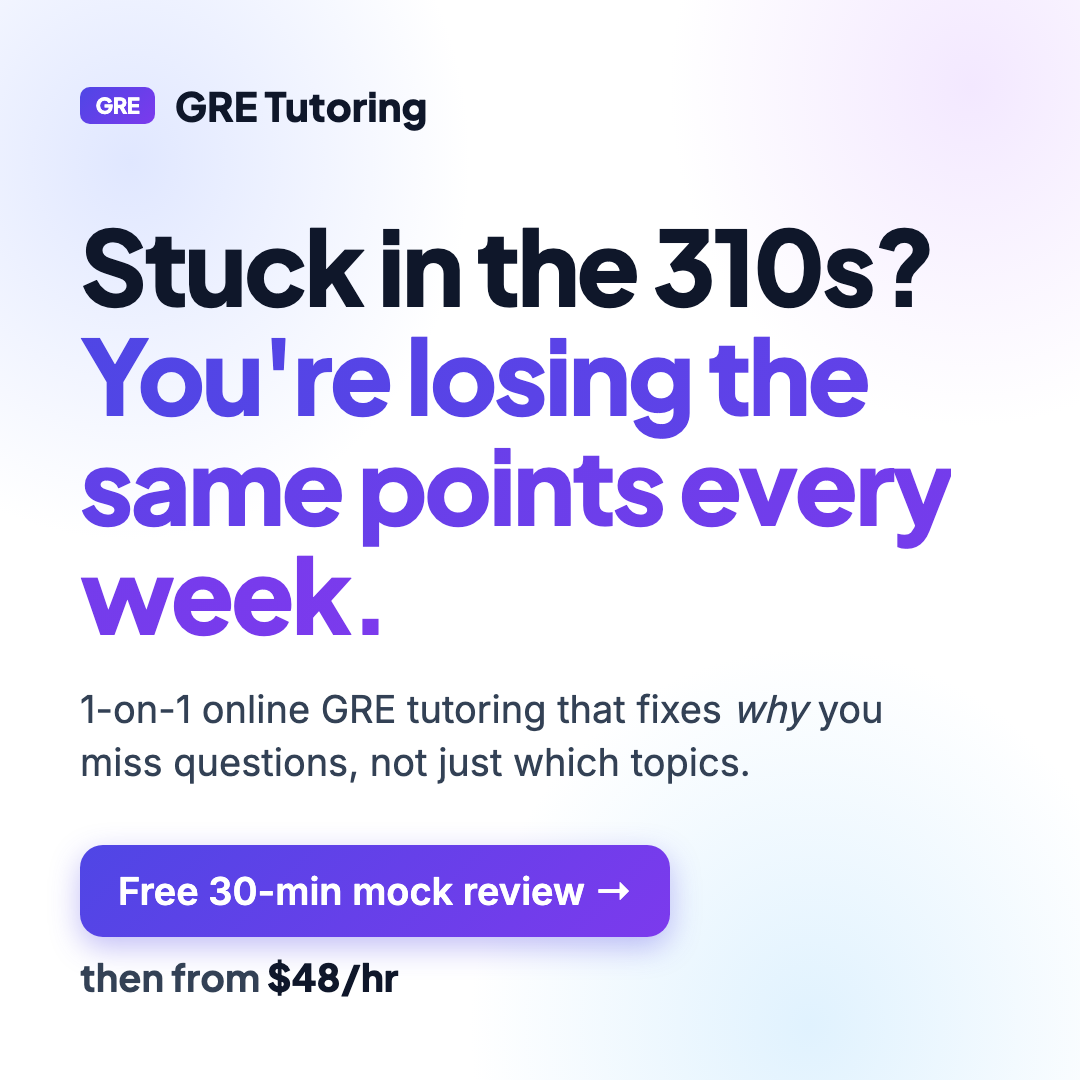
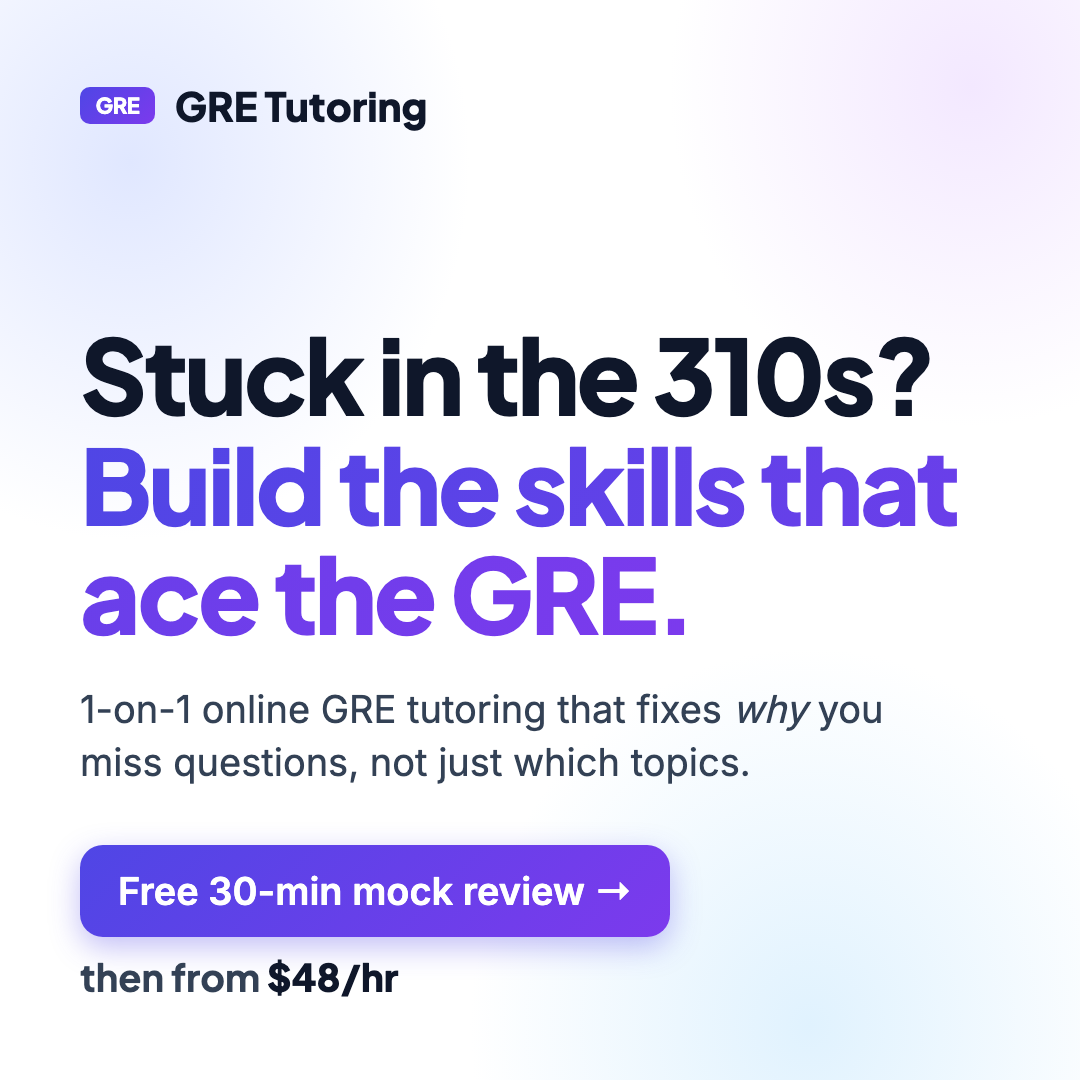
Drop free tutoring; new headline "Build the skills that ace the GRE"
Removes the "Can't afford it?" section, the free tutoring checkbox and
its form fields, and the region intro text that only existed for it.
The free 30-min first call stays. Adds Google Ads image and logo assets
in ad-assets/google and updates the Reddit hook ads to the new headline.

Changed region(s): [[0.0611, 0.2139, 0.8861, 0.6111]]

diff --git a/index.html b/index.html
@@ -3,7 +3,7 @@
 <head>
 <meta charset="utf-8">
 <meta name="viewport" content="width=device-width, initial-scale=1">
-<meta name="description" content="1-on-1 online GRE tutoring: strategies to break the 310s plateau, and free spots for students who can't pay.">
+<meta name="description" content="1-on-1 online GRE tutoring: build the skills that ace the GRE, with a top 10% scorer.">
 <title>GRE Tutoring</title>
 <link rel="preconnect" href="https://fonts.googleapis.com">
 <link rel="preconnect" href="https://fonts.gstatic.com" crossorigin>
@@ -61,7 +61,6 @@ a{color:var(--brand);text-decoration:none}
 .nav-links a{color:var(--ink-2);font-weight:500;font-size:.95rem}
 .nav-links a:hover{color:var(--brand)}
 .nav .btn{padding:.6rem 1rem;font-size:.92rem}
-html.intl .india-only{display:none!important}
 @media (max-width:760px){.nav-links{display:none}.nav .btn{margin-left:auto}.nav .container{gap:.75rem}}
 .logo,.nav .btn{white-space:nowrap}
 @media (max-width:340px){.logo-word{display:none}}
@@ -128,12 +127,6 @@ section{padding:96px 0}
 .step h3{font-size:1.1rem;font-weight:700;margin-bottom:.4rem}
 .step p{color:var(--ink-2);font-size:.95rem}
 
-/* free spots */
-.free{display:grid;grid-template-columns:auto 1fr auto;gap:1.5rem;align-items:center;background:linear-gradient(135deg,var(--g1),var(--g2));border:1px solid var(--line);border-radius:20px;padding:2rem 2.25rem}
-@media (max-width:760px){.free{grid-template-columns:1fr;padding:1.75rem 1.5rem}}
-.free-icon{width:56px;height:56px;border-radius:16px;background:var(--card);display:grid;place-items:center;font-size:1.6rem;box-shadow:var(--shadow)}
-.free h3{font-size:1.35rem;font-weight:800;margin-bottom:.35rem}
-.free p{color:var(--ink-2)}
 
 /* contact */
 .contact{display:grid;grid-template-columns:.85fr 1.15fr;gap:48px;align-items:start}
@@ -156,10 +149,6 @@ input,select,textarea{width:100%;font:inherit;font-size:.98rem;color:var(--ink);
 input:hover,select:hover,textarea:hover{border-color:color-mix(in srgb,var(--brand) 35%,var(--line))}
 input:focus,select:focus,textarea:focus{border-color:var(--brand)}
 textarea{min-height:110px;resize:vertical}
-.freebox{border:1px solid var(--line);background:var(--bg-soft);border-radius:12px;padding:.9rem 1rem}
-.freebox .small{margin:.35rem 0 0 1.75rem;font-size:.85rem;color:var(--muted)}
-label.check{display:flex;align-items:center;gap:.65rem;font-size:.98rem;margin:0;cursor:pointer}
-label.check input{width:1.1rem;height:1.1rem;margin:0;accent-color:var(--brand)}
 .err{color:var(--err);font-size:.9rem;min-height:1.2em}
 form .btn{width:100%;justify-content:center;padding:.95rem}
 .done{text-align:center;padding:2.5rem 1rem}
@@ -219,7 +208,7 @@ try { var rdtCid = new URLSearchParams(location.search).get('rdt_cid'); if (rdtC
     <nav class="nav-links" aria-label="Main">
       <a href="#method">Method</a><a href="#how">How it works</a><a href="#apply">Contact</a>
     </nav>
-    <a href="#apply" class="btn btn-primary">Free session</a>
+    <a href="#apply" class="btn btn-primary">Book a call</a>
   </div>
 </header>
 
@@ -228,12 +217,12 @@ try { var rdtCid = new URLSearchParams(location.search).get('rdt_cid'); if (rdtC
   <div class="container hero-grid">
     <div>
       <span class="pill"><b>Top 10%</b> GRE scorer · ex-McKinsey</span>
-      <h1>Free GRE tutoring <span class="grad">from an expert.</span></h1>
-      <p class="lede">Most people plateau because they keep doing more questions without fixing why they get them wrong. These are the strategies I use to break that plateau.</p>
+      <h1>Build the skills <span class="grad">that ace the GRE.</span></h1>
+      <p class="lede">1-on-1 online GRE tutoring with a top 10% scorer. We fix why you get questions wrong, so your Verbal and Quant skills keep improving.</p>
       <div class="cta">
-        <a href="#apply" class="btn btn-primary">Get free GRE tutoring →</a>
+        <a href="#apply" class="btn btn-primary">Book your free first call →</a>
       </div>
-      <p class="cta-note">First 30-min session is free, 1-on-1 with a top 10% GRE scorer. No payment details needed.</p>
+      <p class="cta-note">First 30-min call is free, 1-on-1 with a top 10% GRE scorer. No payment details needed.</p>
     </div>
   </div>
 </div>
@@ -300,23 +289,12 @@ try { var rdtCid = new URLSearchParams(location.search).get('rdt_cid'); if (rdtC
   </div>
 </section>
 
-<section id="free" class="india-only" style="padding-bottom:0">
-  <div class="container">
-    <div class="free reveal">
-      <div class="free-icon" aria-hidden="true">🎓</div>
-      <div><h3>Can't afford it?</h3>
-        <p>I keep a few free spots each month for people who are serious but can't pay right now. Tick "Apply for free tutoring" at the end of the form below and tell me about your situation and your target. I'll be honest if I can't take you on this month.</p></div>
-      <a href="#apply" class="btn btn-ghost">Apply</a>
-    </div>
-  </div>
-</section>
-
 <section id="apply">
   <div class="container contact">
     <div class="reveal">
       <div class="eyebrow">Get in touch</div>
       <h2>Start with a free 30-minute call</h2>
-      <p class="intro"><span data-r="intro">For paid sessions or a free tutoring spot.</span> I read every request myself and reply within 48 hours.</p>
+      <p class="intro">I read every request myself and reply within 48 hours.</p>
       <ul class="next">
         <li><span class="ic">1</span><div><b>Send the form</b><span>Takes about two minutes.</span></div></li>
         <li><span class="ic">2</span><div><b>I get back to you</b><span>Within 48 hours, to set up a time.</span></div></li>
@@ -349,12 +327,6 @@ try { var rdtCid = new URLSearchParams(location.search).get('rdt_cid'); if (rdtC
         </div>
         <div><label for="msg">Anything I should know? <span class="hint">(target programs, how long you've prepared, what you've tried)</span></label>
           <textarea id="msg" name="msg"></textarea></div>
-        <div class="freebox india-only">
-          <label class="check"><input type="checkbox" id="free" name="free" value="Yes"> Apply for free tutoring</label>
-          <p class="small">Seats are limited each month. Free tutoring is only for serious students who genuinely can't afford paid sessions.</p>
-        </div>
-        <div id="whyfree" hidden><label for="why">Tell me about your situation <span class="hint">(why you need a free spot, how much time you can put in each week)</span></label>
-          <textarea id="why" name="why"></textarea></div>
         <div class="err" id="err" role="alert"></div>
         <button type="submit" id="send" class="btn btn-primary">Send request</button>
       </form>
@@ -407,19 +379,16 @@ if ('IntersectionObserver' in window) {
 // Regional content. /in, /us, /eu pick a region (vercel.json rewrites them to this page);
 // on "/" the visitor's country from /api/geo picks it, else India.
 const REGIONS = {
-  in: { code: 'IN', intro: 'For paid sessions or a free tutoring spot.', phone: '+91' },
-  us: { code: 'US', intro: 'For paid sessions.', phone: '+1' },
-  eu: { code: 'EU', intro: 'For paid sessions.', phone: '+' },
+  in: { code: 'IN', phone: '+91' },
+  us: { code: 'US', phone: '+1' },
+  eu: { code: 'EU', phone: '+' },
 };
 const EURO_COUNTRIES = new Set('AT BE BG HR CY CZ DK EE FI FR DE GR HU IE IT LV LT LU MT NL PL PT RO SK SI ES SE IS LI NO CH'.split(' '));
 
 function applyRegion(key) {
   const r = REGIONS[key] || REGIONS.in;
-  document.querySelectorAll('[data-r]').forEach(el => { el.textContent = r[el.dataset.r]; });
-  document.documentElement.classList.toggle('intl', key !== 'in');
   document.getElementById('phone').placeholder = r.phone;
   document.getElementById('region').value = r.code;
-  if (key !== 'in') { const fb = document.getElementById('free'); fb.checked = false; fb.dispatchEvent(new Event('change')); }
   if (window.clarity) clarity('set', 'region', r.code);
 }
 
@@ -437,14 +406,6 @@ function applyRegion(key) {
 
 const form = document.getElementById('req');
 const err = document.getElementById('err');
-const freeBox = document.getElementById('free');
-const whyBox = document.getElementById('whyfree');
-const why = document.getElementById('why');
-freeBox.addEventListener('change', () => {
-  const free = freeBox.checked;
-  whyBox.hidden = !free;
-  why.required = free;
-});
 form.addEventListener('submit', async (e) => {
   e.preventDefault();
   err.textContent = '';
@@ -459,7 +420,6 @@ form.addEventListener('submit', async (e) => {
   }
   const data = new FormData(form);
   // Keep the sheet's existing "score" column filled alongside the new verbal/quant fields.
-  data.set('free', freeBox.checked ? 'Yes' : 'No');
   data.set('score', `V ${form.verbal.value.trim()} / Q ${form.quant.value.trim()}`);
   const btn = document.getElementById('send');
   btn.disabled = true; btn.textContent = 'Sending…';

diff --git a/ad-assets/google/src/base.css b/ad-assets/google/src/base.css
@@ -1,0 +1,17 @@
+@import url("https://fonts.googleapis.com/css2?family=Plus+Jakarta+Sans:wght@600;700;800&family=Inter:wght@400;500;600&family=JetBrains+Mono:wght@500&display=swap");
+*{box-sizing:border-box;margin:0}
+html,body{width:var(--w);height:var(--h);overflow:hidden}
+body{font-family:Inter,sans-serif;color:#0f172a;position:relative;
+  background:radial-gradient(45% 50% at 12% 15%,#e0e7ff,transparent 70%),radial-gradient(40% 45% at 90% 8%,#f3e8ff,transparent 70%),radial-gradient(45% 50% at 75% 95%,#e0f2fe,transparent 70%),#fff}
+.pad{position:absolute;inset:var(--pad);display:flex;flex-direction:column}
+.logo{display:flex;align-items:center;gap:.5em;font-family:"Plus Jakarta Sans";font-weight:800;font-size:var(--logo)}
+.mark{height:1.7em;padding:0 .7em;border-radius:.45em;letter-spacing:-.02em;background:linear-gradient(135deg,#4f46e5,#7c3aed);color:#fff;display:grid;place-items:center;font-size:.55em}
+.pill{align-self:flex-start;font-family:"JetBrains Mono";font-size:var(--pill);color:#4f46e5;background:#eef0ff;border:1px solid #dcdfff;border-radius:999px;padding:.45em 1em;letter-spacing:.02em}
+h1{font-family:"Plus Jakarta Sans";font-weight:800;letter-spacing:-.03em;line-height:1.05;font-size:var(--h1)}
+.grad{background:linear-gradient(120deg,#4f46e5,#7c3aed);-webkit-background-clip:text;background-clip:text;color:transparent}
+.sub{font-size:var(--sub);color:#334155;line-height:1.4}
+.cta{align-self:flex-start;display:inline-flex;align-items:center;gap:.4em;background:linear-gradient(135deg,#4f46e5,#7c3aed);color:#fff;font-weight:700;border-radius:.6em;padding:.6em 1em;font-size:var(--cta);box-shadow:0 10px 30px rgba(79,70,229,.35)}
+.list{display:grid;gap:var(--gap)}
+.item{display:flex;align-items:center;gap:.7em;background:#fff;border:2px solid #e5e7ef;border-radius:.6em;padding:.55em .8em;font-size:var(--item);font-weight:600;box-shadow:0 6px 18px rgba(15,23,42,.06)}
+.ok{flex:none;width:1.5em;height:1.5em;border-radius:50%;background:#d1fae5;color:#059669;display:grid;place-items:center;font-weight:800;font-size:.8em}
+.tag{font-family:"JetBrains Mono";font-size:.62em;color:#4f46e5;text-transform:uppercase;letter-spacing:.06em;margin-right:.2em}

diff --git a/ad-assets/google/src/method-1200x628.html b/ad-assets/google/src/method-1200x628.html
@@ -1,0 +1,3 @@
+<!doctype html><html><head><meta charset="utf-8"><link rel="stylesheet" href="base.css"><style>:root{--w:1200px;--h:628px;--pad:56px;--logo:28px;--pill:17px;--h1:58px;--sub:24px;--cta:26px;--item:22px;--gap:12px}</style></head><body><div class="pad">
+<div style="display:grid;grid-template-columns:1fr 1.05fr;gap:44px;height:100%"><div style="display:flex;flex-direction:column"><div class="logo"><span class="mark">GRE</span>GRE Tutoring</div><div style="margin-top:auto"><h1>Build the skills <span class="grad">that ace the GRE.</span></h1></div><p class="sub" style="margin-top:18px">1-on-1 online GRE tutoring, built around your mistakes.</p><div style="margin-top:28px"><span class="cta">Book a free 30-min call →</span></div></div><div style="display:flex;align-items:center"><div class="list"><div class="item"><span class="ok">✓</span><span><span class="tag">Ledger</span> Find the traps costing you points</span></div><div class="item"><span class="ok">✓</span><span><span class="tag">Verbal</span> Read for structure, not vocabulary</span></div><div class="item"><span class="ok">✓</span><span><span class="tag">Quant</span> Set up before you solve</span></div><div class="item"><span class="ok">✓</span><span><span class="tag">Vocab</span> Learn words through roots</span></div></div></div></div>
+</div></body></html>

diff --git a/ad-assets/src/hook-1080x1350.html b/ad-assets/src/hook-1080x1350.html
@@ -1,3 +1,3 @@
 <!doctype html><html><head><meta charset="utf-8"><link rel="stylesheet" href="base.css">
 <style>:root{--w:1080px;--h:1350px;--pad:84px;--logo:42px;--h1:112px;--sub:40px;--cta:40px;--trap:0px;--gap:0px}</style></head>
-<body><div class="pad"><div class="logo"><span class="mark">GRE</span>GRE Tutoring</div><div style="margin-top:auto"><h1>Stuck in the 310s?<br><span class="grad">You're losing the same points every week.</span></h1><p class="sub" style="margin-top:40px;max-width:840px">1-on-1 online GRE tutoring that fixes <i>why</i> you miss questions, not just which topics.</p></div><div class="row" style="margin-top:64px;margin-bottom:24px"><span class="cta">Free 30-min mock review →</span><span class="price">then from <b>$48/hr</b></span></div></div></body></html>
+<body><div class="pad"><div class="logo"><span class="mark">GRE</span>GRE Tutoring</div><div style="margin-top:auto"><h1>Stuck in the 310s?<br><span class="grad">Build the skills that ace the GRE.</span></h1><p class="sub" style="margin-top:40px;max-width:840px">1-on-1 online GRE tutoring that fixes <i>why</i> you miss questions, not just which topics.</p></div><div class="row" style="margin-top:64px;margin-bottom:24px"><span class="cta">Free 30-min mock review →</span><span class="price">then from <b>$48/hr</b></span></div></div></body></html>

diff --git a/ad-assets/src/hook-1080x1080.html b/ad-assets/src/hook-1080x1080.html
@@ -1,3 +1,3 @@
 <!doctype html><html><head><meta charset="utf-8"><link rel="stylesheet" href="base.css">
 <style>:root{--w:1080px;--h:1080px;--pad:80px;--logo:40px;--h1:104px;--sub:38px;--cta:38px;--trap:0px;--gap:0px}</style></head>
-<body><div class="pad"><div class="logo"><span class="mark">GRE</span>GRE Tutoring</div><div style="margin-top:auto"><h1>Stuck in the 310s?<br><span class="grad">You're losing the same points every week.</span></h1><p class="sub" style="margin-top:36px;max-width:820px">1-on-1 online GRE tutoring that fixes <i>why</i> you miss questions, not just which topics.</p></div><div class="row" style="margin-top:56px"><span class="cta">Free 30-min mock review →</span><span class="price">then from <b>$48/hr</b></span></div></div></body></html>
+<body><div class="pad"><div class="logo"><span class="mark">GRE</span>GRE Tutoring</div><div style="margin-top:auto"><h1>Stuck in the 310s?<br><span class="grad">Build the skills that ace the GRE.</span></h1><p class="sub" style="margin-top:36px;max-width:820px">1-on-1 online GRE tutoring that fixes <i>why</i> you miss questions, not just which topics.</p></div><div class="row" style="margin-top:56px"><span class="cta">Free 30-min mock review →</span><span class="price">then from <b>$48/hr</b></span></div></div></body></html>

diff --git a/ad-assets/src/hook-1200x628.html b/ad-assets/src/hook-1200x628.html
@@ -1,3 +1,3 @@
 <!doctype html><html><head><meta charset="utf-8"><link rel="stylesheet" href="base.css">
 <style>:root{--w:1200px;--h:628px;--pad:60px;--logo:30px;--h1:68px;--sub:26px;--cta:28px;--trap:0px;--gap:0px}</style></head>
-<body><div class="pad"><div class="logo"><span class="mark">GRE</span>GRE Tutoring</div><div style="margin-top:auto"><h1>Stuck in the 310s?<br><span class="grad">You're losing the same points every week.</span></h1><p class="sub" style="margin-top:20px;max-width:900px">1-on-1 online GRE tutoring that fixes <i>why</i> you miss questions.</p></div><div class="row" style="margin-top:30px"><span class="cta">Free 30-min mock review →</span><span class="price">then from <b>$48/hr</b></span></div></div></body></html>
+<body><div class="pad"><div class="logo"><span class="mark">GRE</span>GRE Tutoring</div><div style="margin-top:auto"><h1>Stuck in the 310s?<br><span class="grad">Build the skills that ace the GRE.</span></h1><p class="sub" style="margin-top:20px;max-width:900px">1-on-1 online GRE tutoring that fixes <i>why</i> you miss questions.</p></div><div class="row" style="margin-top:30px"><span class="cta">Free 30-min mock review →</span><span class="price">then from <b>$48/hr</b></span></div></div></body></html>

diff --git a/ad-assets/google/src/method-1200x1200.html b/ad-assets/google/src/method-1200x1200.html
@@ -1,0 +1,3 @@
+<!doctype html><html><head><meta charset="utf-8"><link rel="stylesheet" href="base.css"><style>:root{--w:1200px;--h:1200px;--pad:88px;--logo:40px;--pill:24px;--h1:104px;--sub:36px;--cta:40px;--item:34px;--gap:18px}</style></head><body><div class="pad">
+<div class="logo"><span class="mark">GRE</span>GRE Tutoring</div><div style="margin-top:auto"><h1>Build the skills <span class="grad">that ace the GRE.</span></h1></div><p class="sub" style="margin-top:24px">1-on-1 online GRE tutoring, built around your mistakes.</p><div style="margin-top:44px"><div class="list"><div class="item"><span class="ok">✓</span><span><span class="tag">Ledger</span> Find the traps costing you points</span></div><div class="item"><span class="ok">✓</span><span><span class="tag">Verbal</span> Read for structure, not vocabulary</span></div><div class="item"><span class="ok">✓</span><span><span class="tag">Quant</span> Set up before you solve</span></div><div class="item"><span class="ok">✓</span><span><span class="tag">Vocab</span> Learn words through roots</span></div></div></div><div style="margin-top:48px"><span class="cta">Book a free 30-min call →</span></div>
+</div></body></html>

diff --git a/ad-assets/google/src/method-960x1200.html b/ad-assets/google/src/method-960x1200.html
@@ -1,0 +1,3 @@
+<!doctype html><html><head><meta charset="utf-8"><link rel="stylesheet" href="base.css"><style>:root{--w:960px;--h:1200px;--pad:72px;--logo:36px;--pill:21px;--h1:88px;--sub:32px;--cta:36px;--item:29px;--gap:16px}</style></head><body><div class="pad">
+<div class="logo"><span class="mark">GRE</span>GRE Tutoring</div><div style="margin-top:auto"><h1>Build the skills <span class="grad">that ace the GRE.</span></h1></div><p class="sub" style="margin-top:24px">1-on-1 online GRE tutoring, built around your mistakes.</p><div style="margin-top:44px"><div class="list"><div class="item"><span class="ok">✓</span><span><span class="tag">Ledger</span> Find the traps costing you points</span></div><div class="item"><span class="ok">✓</span><span><span class="tag">Verbal</span> Read for structure, not vocabulary</span></div><div class="item"><span class="ok">✓</span><span><span class="tag">Quant</span> Set up before you solve</span></div><div class="item"><span class="ok">✓</span><span><span class="tag">Vocab</span> Learn words through roots</span></div></div></div><div style="margin-top:48px"><span class="cta">Book a free 30-min call →</span></div>
+</div></body></html>

diff --git a/ad-assets/google/src/logo-4-1200x1200.html b/ad-assets/google/src/logo-4-1200x1200.html
@@ -1,0 +1,5 @@
+<!doctype html><html><head><meta charset="utf-8"><link rel="stylesheet" href="base.css"><style>:root{--w:1200px;--h:1200px}
+body{display:grid;place-items:center;font-family:"Plus Jakarta Sans";font-weight:800}
+.bgg{background:linear-gradient(135deg,#4f46e5,#7c3aed)} .w{display:flex;flex-direction:column;align-items:center;gap:60px;color:#fff}
+.t{font-size:260px;letter-spacing:-.04em;line-height:1}
+</style></head><body class="bgg"><div class="w"><svg width="560" height="300" viewBox="0 0 560 300"><rect x="0" y="200" width="120" height="100" rx="22" fill="#fff" opacity=".45"/><rect x="146" y="200" width="120" height="100" rx="22" fill="#fff" opacity=".6"/><rect x="292" y="110" width="120" height="190" rx="22" fill="#fff" opacity=".8"/><rect x="438" y="0" width="120" height="300" rx="22" fill="#fff"/></svg><div class="t">GRE</div></div></body></html>

diff --git a/ad-assets/google/src/logo-5-1200x1200.html b/ad-assets/google/src/logo-5-1200x1200.html
@@ -1,0 +1,8 @@
+<!doctype html><html><head><meta charset="utf-8"><link rel="stylesheet" href="base.css"><style>:root{--w:1200px;--h:1200px}
+body{display:grid;place-items:center;font-family:"Plus Jakarta Sans";font-weight:800}
+.bgg{background:linear-gradient(135deg,#4f46e5,#7c3aed)} body{background:#0f172a}
+.w{text-align:center}
+.g{font-size:330px;letter-spacing:-.04em;line-height:1;background:linear-gradient(120deg,#8b8cff,#b28bff);-webkit-background-clip:text;background-clip:text;color:transparent}
+.t{margin-top:30px;font-size:130px;letter-spacing:-.02em;color:#fff;line-height:1}
+.u{width:200px;height:16px;border-radius:8px;margin:70px auto 0;background:linear-gradient(90deg,#4f46e5,#7c3aed)}
+</style></head><body><div class="w"><div class="g">GRE</div><div class="t">Tutoring</div><div class="u"></div></div></body></html>

diff --git a/ad-assets/google/src/logo-3-1200x1200.html b/ad-assets/google/src/logo-3-1200x1200.html
@@ -1,0 +1,6 @@
+<!doctype html><html><head><meta charset="utf-8"><link rel="stylesheet" href="base.css"><style>:root{--w:1200px;--h:1200px}
+body{display:grid;place-items:center;font-family:"Plus Jakarta Sans";font-weight:800}
+.bgg{background:linear-gradient(135deg,#4f46e5,#7c3aed)} .w{display:flex;flex-direction:column;align-items:center;color:#fff}
+.c{width:260px;height:260px;border-radius:50%;background:#fff;display:grid;place-items:center;margin-bottom:56px}
+.t{font-size:300px;letter-spacing:-.04em;line-height:1}
+</style></head><body class="bgg"><div class="w"><div class="c"><svg width="150" height="150" viewBox="0 0 24 24" fill="none" stroke="#059669" stroke-width="3.2" stroke-linecap="round" stroke-linejoin="round"><path d="M4.5 12.5l5 5L19.5 7"/></svg></div><div class="t">GRE</div></div></body></html>

diff --git a/ad-assets/google/src/logo-2-1200x1200.html b/ad-assets/google/src/logo-2-1200x1200.html
@@ -1,0 +1,6 @@
+<!doctype html><html><head><meta charset="utf-8"><link rel="stylesheet" href="base.css"><style>:root{--w:1200px;--h:1200px}
+body{display:grid;place-items:center;font-family:"Plus Jakarta Sans";font-weight:800}
+.bgg{background:linear-gradient(135deg,#4f46e5,#7c3aed)} body{background:#fff}
+.b{width:620px;height:360px;border-radius:84px;display:grid;place-items:center;color:#fff;font-size:200px;letter-spacing:-.03em;box-shadow:0 30px 80px rgba(79,70,229,.35)}
+.t{margin-top:70px;font-family:"JetBrains Mono";font-weight:500;font-size:72px;letter-spacing:.32em;color:#4f46e5;text-align:center;padding-left:.32em}
+</style></head><body><div><div class="b bgg">GRE</div><div class="t">TUTORING</div></div></body></html>
